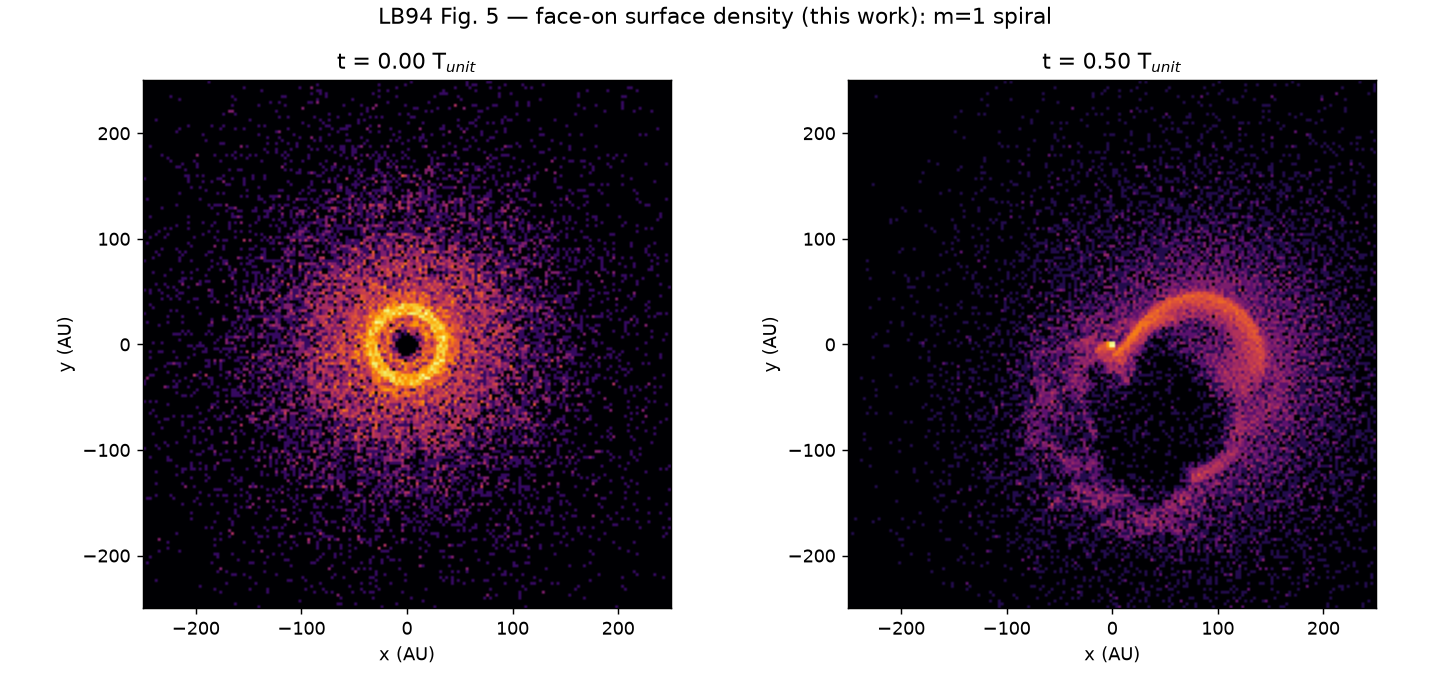
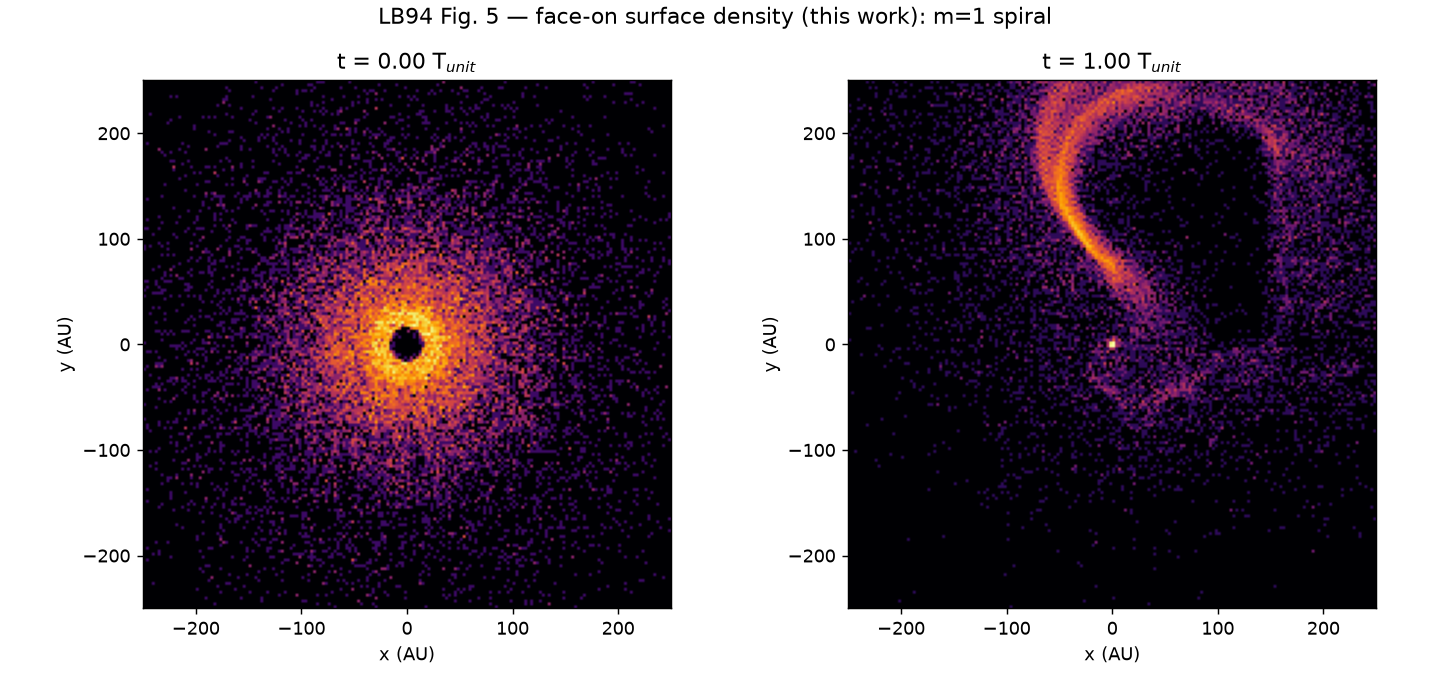
lb94/sph: use the VISCOUS disk for the IC (fixes the too-low Toomre Q)
The SPH IC should come from LB94's viscous 2D disk, not the inviscid one I had defaulted to
(the viscous 2D run was fragile past 54 kyr, but its 40 kyr grid dump is clean). compute_Q.py
computes Q(R) = c_s kappa/(pi G Sigma) with the real kappa from the rotation curve:

  inviscid 40 kyr disk:  min Q = 0.68 at 36 AU  (sharp inner Sigma peak, 250 g/cm^2)
  viscous  40 kyr disk:  min Q = 1.24 at 31 AU  (viscosity spreads it, 125 g/cm^2)
  LB94 (stated):         min Q ~ 1.3  at 80 AU

So the low Q was a replication shortcoming: the inviscid disk is too centrally concentrated
(Q<1, violently unstable) while the viscous disk reproduces LB94's "broad surface density
maximum" that is only marginally unstable (Q~1.3). The kappa=Omega approximation was a red
herring (real kappa gives nearly the same Q). Re-ran the 2D viscous collapse to dump the
40 kyr grid, regenerated the IC from it, and re-ran the SPH: the m=1 onset is now DELAYED
(|c1| stays ~1% to t=0.3, vs the inviscid run's explosive 0.05->0.40), i.e. marginally stable
as LB94's is, though it still goes m=1-dominant nonlinear by t~0.8-1.0. The residual faster-
than-LB94 growth now points at the resolution/noise dependence -- the original LB94 audit
question. fig_modes/fig_spiral.png regenerated from the (correct) viscous run.

Changed region(s): [[0.5846, 0.0932, 0.9846, 0.9009], [0.0923, 0.1243, 0.4615, 0.9009], [0.4, 0.1243, 0.4615, 0.1553]]

diff --git a/lb94/compute_Q.py b/lb94/compute_Q.py
@@ -1,0 +1,51 @@
+#!/usr/bin/env python3
+"""Toomre Q(R) of the 2D collapse disk, computed properly: Q = c_s kappa / (pi G Sigma),
+with the epicyclic frequency kappa from the actual rotation curve (kappa^2 = R^-3 d(R^4 Om^2)/dR)
+rather than the kappa=Omega Keplerian approximation. Compares the inviscid and viscous disks
+to LB94's stated minimum Q ~ 1.3 (at ~80 AU)."""
+import sys
+import numpy as np
+
+kB, mH, mu, G, AU = 1.380649e-16, 1.6726e-24, 2.34, 6.674e-8, 1.496e13
+
+def load(fn):
+    with open(fn) as f:
+        hdr = f.readline()
+    p = dict(tok.split("=") for tok in hdr.replace("#", "").split() if "=" in tok)
+    NR, NZ, dZ = int(p["NR"]), int(p["NZ"]), float(p["dZ_cm"])
+    d = np.loadtxt(fn)
+    R = d[:, 0].reshape(NR, NZ)
+    rho = d[:, 2].reshape(NR, NZ)
+    vphi = d[:, 3].reshape(NR, NZ)
+    T = d[:, 4].reshape(NR, NZ)
+    Rmid = R[:, 0]
+    Sigma = rho.sum(axis=1) * dZ * 2.0                 # int rho dZ over both sides
+    cs = np.sqrt(kB * np.maximum(T[:, 0], 1.0) / (mu * mH))   # isothermal sound speed (midplane)
+    Om = np.where(Rmid > 0, vphi[:, 0] / Rmid, 0.0)
+    # kappa^2 = (1/R^3) d(R^4 Om^2)/dR  via central differences
+    f = Rmid**4 * Om**2
+    dfdR = np.gradient(f, Rmid)
+    kap2 = np.where(Rmid > 0, dfdR / Rmid**3, 0.0)
+    kap = np.sqrt(np.maximum(kap2, 0.0))
+    return Rmid, Sigma, cs, Om, kap, float(p["alpha"])
+
+def report(fn):
+    Rmid, Sigma, cs, Om, kap, alpha = load(fn)
+    Q_kap = np.where(Sigma > 0, cs * kap / (np.pi * G * Sigma), np.inf)
+    Q_om  = np.where(Sigma > 0, cs * Om  / (np.pi * G * Sigma), np.inf)   # kappa=Omega approx
+    disk = (Rmid / AU > 20) & (Rmid / AU < 250) & (Sigma > 0.5)
+    print(f"\n{fn}  (alpha={alpha})")
+    print("  R(AU)   Sigma     cs(km/s)  kap/Om   Q(real kappa)  Q(kappa=Om)")
+    for i in range(len(Rmid)):
+        if not disk[i]:
+            continue
+        if i % 3 == 0:
+            print(f"  {Rmid[i]/AU:5.0f}  {Sigma[i]:7.2f}   {cs[i]/1e5:6.2f}   {kap[i]/max(Om[i],1e-30):5.2f}"
+                  f"     {Q_kap[i]:6.2f}        {Q_om[i]:6.2f}")
+    qd = Q_kap[disk]
+    print(f"  --> min Q(real kappa) = {qd.min():.2f} at R = {Rmid[disk][qd.argmin()]/AU:.0f} AU"
+          f"   (kappa=Om gives min {Q_om[disk].min():.2f})   [LB94: min Q ~ 1.3 at 80 AU]")
+
+if __name__ == "__main__":
+    for fn in sys.argv[1:]:
+        report(fn)
